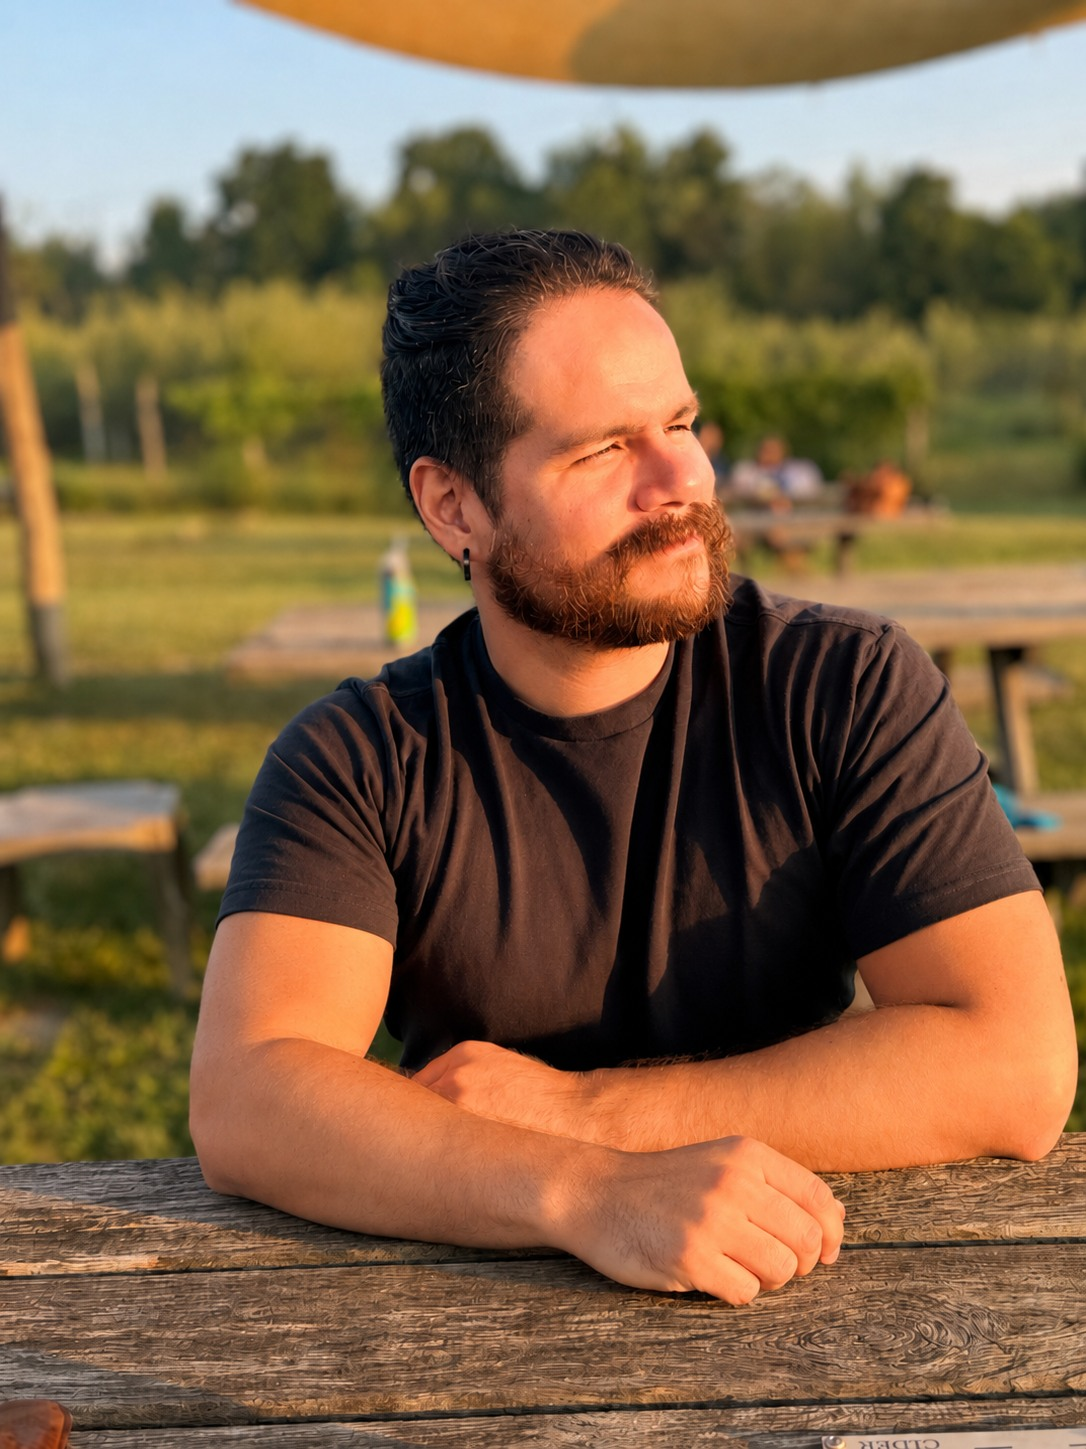
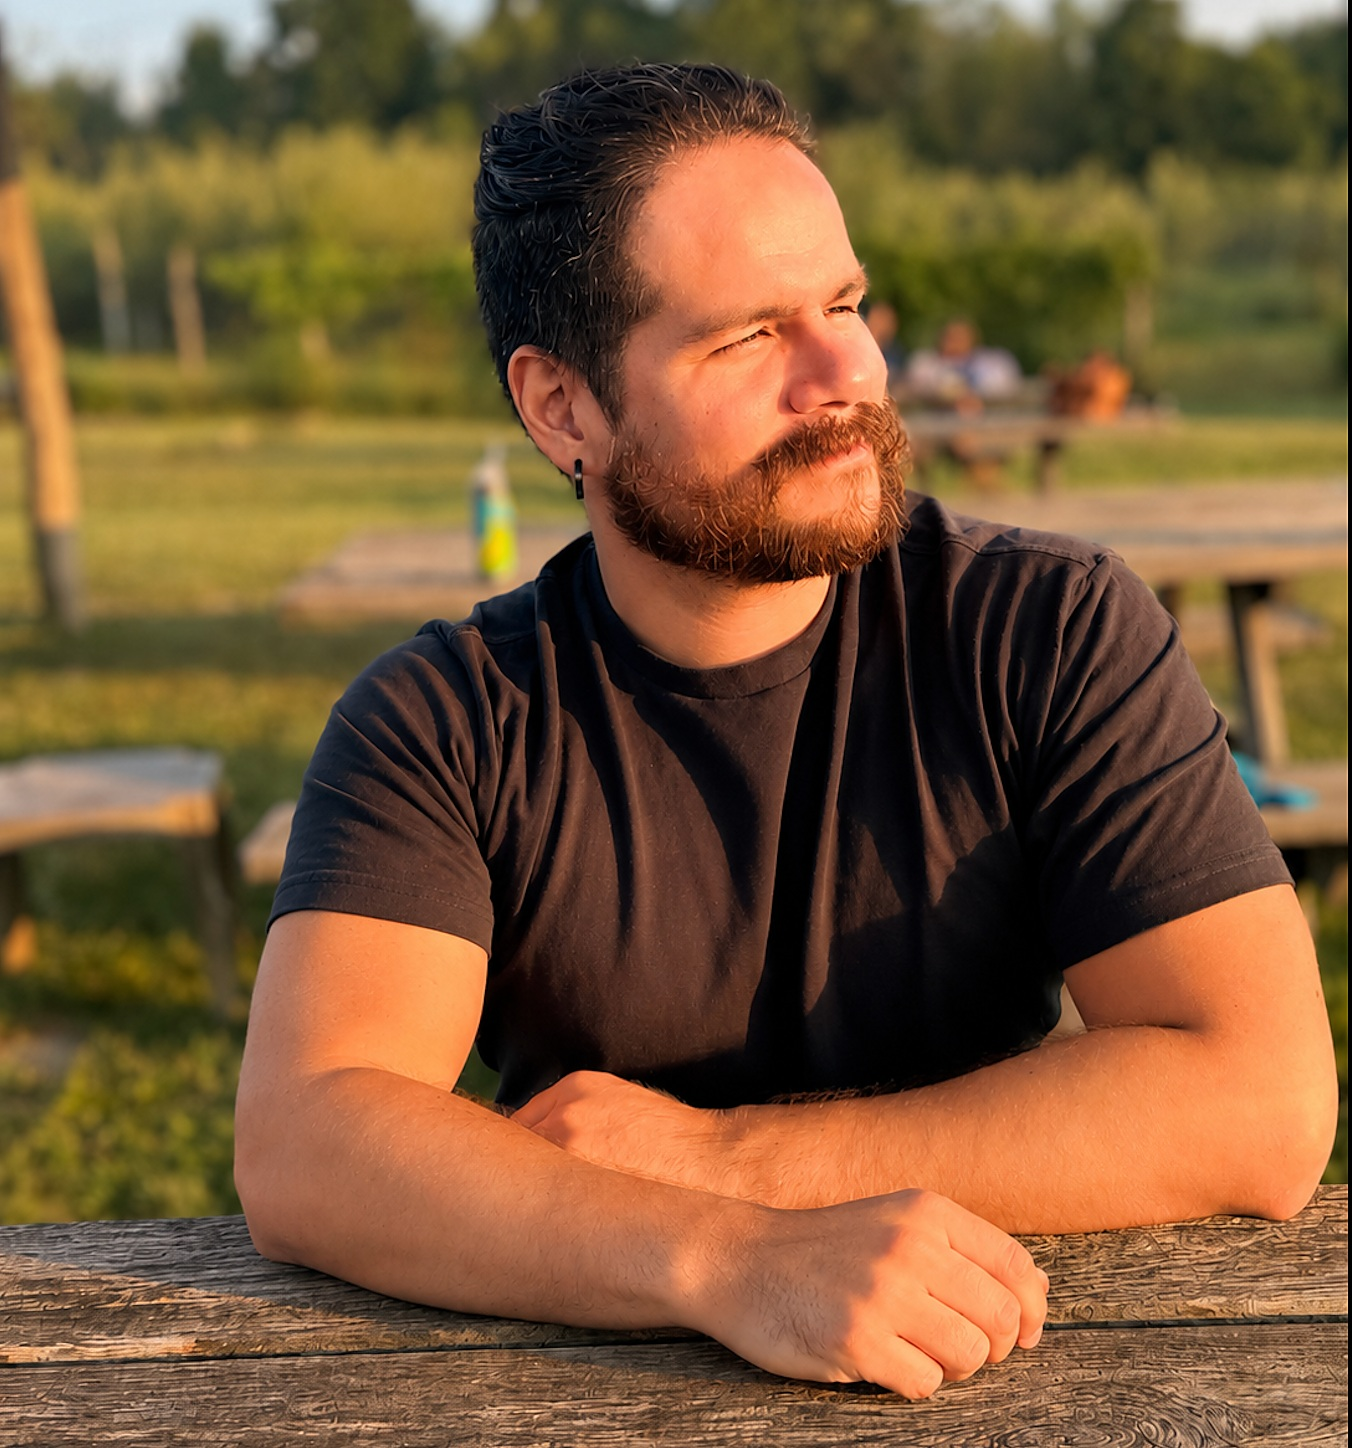
Add files via upload
Update about me

diff --git a/styles.css b/styles.css
@@ -349,3 +349,63 @@ footer {
 .home-hero .tile-label small {
   display: none;
 }
+
+
+/* About page refinements */
+.about-hero {
+  align-items: start;
+}
+
+.portrait-frame {
+  min-height: 0;
+  aspect-ratio: 4 / 5;
+}
+
+.portrait-frame img {
+  min-height: 0;
+  height: 100%;
+  object-position: center center;
+}
+
+.about-title {
+  font-family: "Cormorant Garamond", Georgia, serif;
+  font-size: clamp(2.9rem, 4.75vw, 4.7rem);
+  font-weight: 500;
+  line-height: 0.94;
+  letter-spacing: -0.035em;
+  text-transform: none;
+  white-space: nowrap;
+  margin-bottom: 34px;
+}
+
+.bio {
+  font-size: clamp(1.08rem, 1.55vw, 1.38rem);
+  line-height: 1.52;
+}
+
+.bio p {
+  margin-bottom: 1.05em;
+}
+
+@media (max-width: 820px) {
+  .about-title {
+    font-size: clamp(2.45rem, 9vw, 4.1rem);
+    white-space: nowrap;
+  }
+
+  .portrait-frame img {
+    aspect-ratio: auto;
+  }
+}
+
+@media (max-width: 520px) {
+  .about-title {
+    font-size: clamp(2rem, 8.8vw, 2.75rem);
+    letter-spacing: -0.04em;
+    white-space: nowrap;
+  }
+
+  .bio {
+    font-size: 1.12rem;
+  }
+}

diff --git a/about.html b/about.html
@@ -6,7 +6,7 @@
 <link rel="icon" href="assets/favicon.svg" type="image/svg+xml">
 <link rel="preconnect" href="https://fonts.googleapis.com">
 <link rel="preconnect" href="https://fonts.gstatic.com" crossorigin>
-<link href="https://fonts.googleapis.com/css2?family=Bodoni+Moda:opsz,wght@6..96,400;6..96,500&family=Inter:wght@400;500&display=swap" rel="stylesheet">
+<link href="https://fonts.googleapis.com/css2?family=Bodoni+Moda:opsz,wght@6..96,400;6..96,500&family=Cormorant+Garamond:wght@500;600&family=Inter:wght@400;500&display=swap" rel="stylesheet">
 <link rel="stylesheet" href="styles.css">
   <meta name="description" content="About Edvard Aviles-Meza, Assistant Professor of Philosophy at the University of Wisconsin–Madison.">
   <title>About — Edvard Aviles-Meza</title>
@@ -22,11 +22,13 @@
       </div>
       <div class="about-text">
         <p class="eyebrow left-align">About</p>
-        <h1 class="about-title">Edvard<br>Aviles-Meza</h1>
+        <h1 class="about-title">Edvard Aviles-Meza</h1>
         <div class="bio">
-          <p>I am an Assistant Professor of Philosophy at the University of Wisconsin–Madison. I received my PhD in Philosophy, with a minor in Cognitive Science, from Cornell University.</p>
-          <p>Before Cornell, I earned a BA and a professional degree in Psychology from Universidad Ricardo Palma, completed graduate coursework in Neuroscience at Universidad Nacional Mayor de San Marcos, and received an MA in Philosophy from Central European University.</p>
+          <p>I am an Assistant Professor of Philosophy at the University of Wisconsin–Madison. I received my PhD in Philosophy, with a concentration in Cognitive Science, from Cornell University.</p>
+          <p>Before that, I earned a BA in Psychology and completed two master’s degrees: one in Neuroscience at UNMSM and another in Philosophy at Central European University (CEU).</p>
           <p>My research lies primarily in philosophy of mind and epistemology, approached through the lens of cognitive science.</p>
+          <p>Outside philosophy, I enjoy playing and composing music, as well as filmmaking—interests I try to bring together through documentary work. I also love mixed martial arts (MMA), especially striking.</p>
+          <p>I was born and raised in Lima, Perú.</p>
         </div>
         <div class="about-actions">
           <a class="button-link" href="assets/edvard-aviles-meza-cv.pdf">Download CV</a>